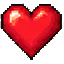
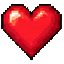
troca ícones da barra do jogo pelos novos (menu, ajuda, tela cheia, batata, coração)
O botão de tela cheia passa a usar a arte em pixel (entrar e sair) em todas
as telas, e o aviso de tela cheia mostra o mesmo botão.

diff --git a/src/game/ui/shared.tsx b/src/game/ui/shared.tsx
@@ -400,21 +400,16 @@ export function FullscreenButton({ className = "" }: { className?: string }) {
     if (document.fullscreenElement) void document.exitFullscreen().catch(() => {});
     else void document.documentElement.requestFullscreen().catch(() => {});
   };
-  // cantos em pixel: para fora = entrar, para dentro = sair
-  const d = cheia
-    ? "M6 1h2v7H1V6h5zM16 1h2v5h5v2h-7zM1 16h7v7H6v-5H1zM16 16h7v2h-5v5h-2z"
-    : "M1 1h7v2H3v5H1zM16 1h7v7h-2V3h-5zM1 16h2v5h5v2H1zM21 16h2v7h-7v-2h5z";
+  // botão em pixel art (public/assets/ui): cantos para fora = entrar, para dentro = sair
   return (
     <button
       type="button"
       onClick={alternar}
       aria-label={label}
       title={label}
-      className={`grid h-12 w-12 shrink-0 place-items-center border-4 border-[#a8400f] bg-[#3b1206] text-[#f6e38c] shadow-[0_3px_0_#1c0703] hover:brightness-125 active:translate-y-0.5 focus-visible:outline-4 focus-visible:outline-[#ffd23f] ${className}`}
+      className={`grid h-12 w-12 shrink-0 place-items-center hover:brightness-110 active:translate-y-0.5 focus-visible:outline-4 focus-visible:outline-[#ffd23f] ${className}`}
     >
-      <svg viewBox="0 0 24 24" width="24" height="24" aria-hidden shapeRendering="crispEdges">
-        <path d={d} fill="currentColor" />
-      </svg>
+      <PixelIcon name={cheia ? "sair_tela_cheia" : "tela_cheia"} size={42} />
     </button>
   );
 }

diff --git a/src/game/ui/AvisoTelaCheia.tsx b/src/game/ui/AvisoTelaCheia.tsx
@@ -4,6 +4,7 @@
 import { useEffect, useState } from "react";
 import { BOTAO_ESCURO, BotaoHub, TituloHub } from "./hub";
 import { Modal, useGT } from "./shared";
+import { PixelIcon } from "./PixelIcon";
 
 const CHAVE = "marsops:aviso-tela-cheia";
 
@@ -45,13 +46,8 @@ export function AvisoTelaCheia() {
   return (
     <Modal label={t("ui.telacheia.aviso.titulo")} onClose={fechar}>
       <div className="flex flex-col items-center gap-4 text-center">
-        {/* cantos de tela cheia em pixel (o mesmo desenho do botão lá de cima) */}
-        <svg viewBox="0 0 24 24" width="56" height="56" aria-hidden shapeRendering="crispEdges">
-          <path
-            d="M1 1h7v2H3v5H1zM16 1h7v7h-2V3h-5zM1 16h2v5h5v2H1zM21 16h2v7h-7v-2h5z"
-            fill="#f3c916"
-          />
-        </svg>
+        {/* o mesmo botão de tela cheia lá de cima */}
+        <PixelIcon name="tela_cheia" size={64} />
         <TituloHub as="h2" className="text-[clamp(1.1rem,4.5vw,1.6rem)]">
           {t("ui.telacheia.aviso.titulo")}
         </TituloHub>
